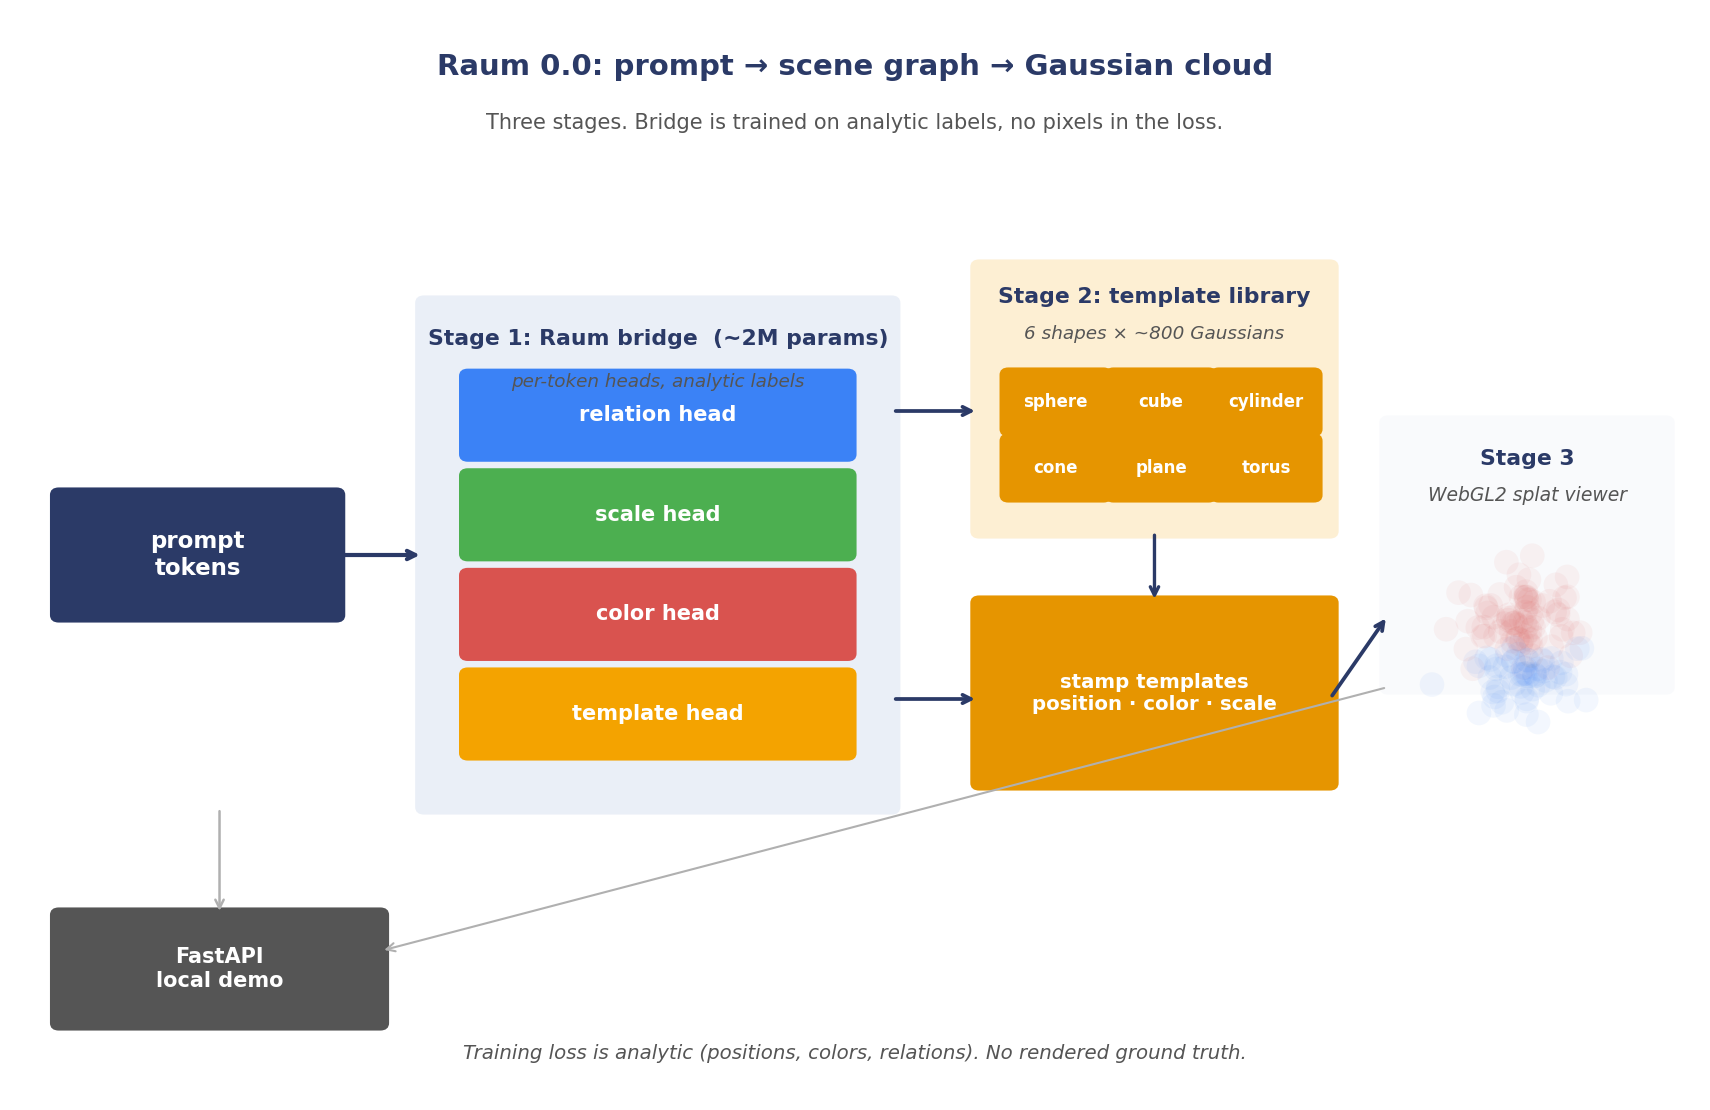
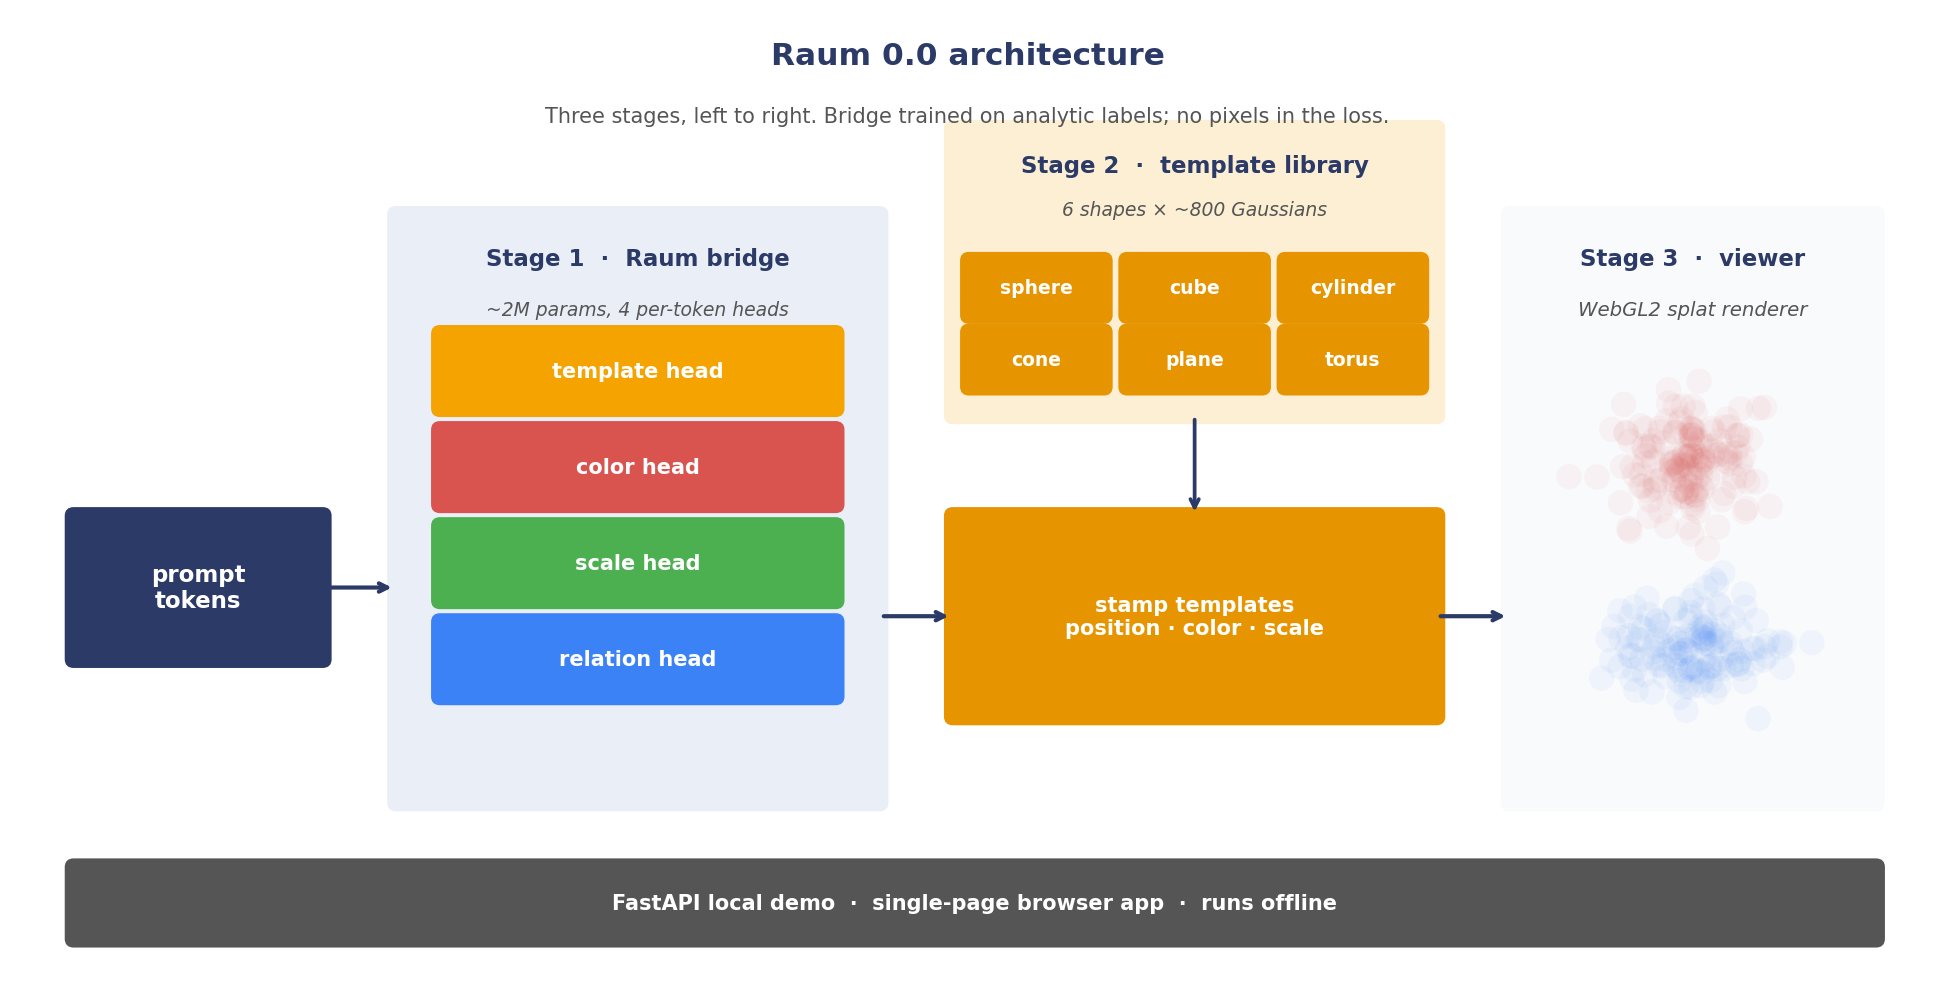
Clean up Raum 0.0 architecture diagram
Heads in reading order (template, color, scale, relation); remove
criss-crossing FastAPI return arrows in favour of a footer strip;
single horizontal spine with library stacked above stamp.

diff --git a/scripts/plot_raum_posts.py b/scripts/plot_raum_posts.py
@@ -181,124 +181,145 @@ def post1_core_idea():
 # ──────────────────────────────────────────────────────────────────
 
 def post2_architecture():
-    fig, ax = plt.subplots(figsize=(11.5, 7.5))
-    ax.set_xlim(0, 11.5)
-    ax.set_ylim(0, 9.0)
+    """
+    Clean left-to-right three-stage diagram. Single spine, vertical
+    middle column for the template library feed into stamp. No
+    diagonal return arrows, no stray connectors. Heads in reading
+    order (template → color → scale → relation).
+    """
+    fig, ax = plt.subplots(figsize=(13.0, 6.8))
+    W, H = 13.0, 6.8
+    ax.set_xlim(0, W)
+    ax.set_ylim(0, H)
     ax.axis("off")
 
-    # Title
+    # ─── Title ───
     ax.text(
-        5.75, 8.5, "Raum 0.0: prompt → scene graph → Gaussian cloud",
-        ha="center", fontsize=14, fontweight="bold", color=C_BASE,
+        W / 2, H - 0.35,
+        "Raum 0.0 architecture",
+        ha="center", fontsize=15, fontweight="bold", color=C_BASE,
     )
     ax.text(
-        5.75, 8.05,
-        "Three stages. Bridge is trained on analytic labels, no pixels in the loss.",
+        W / 2, H - 0.75,
+        "Three stages, left to right. Bridge trained on analytic labels; no pixels in the loss.",
         ha="center", fontsize=10, color=C_TEXT_FAINT,
     )
 
-    # Input prompt
-    _box(ax, 0.3, 4.0, 1.9, 1.0, "prompt\ntokens", C_BASE)
+    # Horizontal centre-line the three stage bodies share.
+    SPINE_Y = 2.8
 
-    # ─── Stage 1: bridge with 4 heads ───
-    bridge_x, bridge_y, bridge_w, bridge_h = 2.8, 2.4, 3.2, 4.2
-    _box(ax, bridge_x, bridge_y, bridge_w, bridge_h, "", "#EAEFF7", text_color=C_BASE)
+    # ─── 0. Prompt (input) ───
+    p_x, p_y, p_w, p_h = 0.4, SPINE_Y - 0.5, 1.7, 1.0
+    _box(ax, p_x, p_y, p_w, p_h, "prompt\ntokens", C_BASE, fontsize=11)
+
+    # ─── Stage 1: bridge ───
+    b_x, b_y, b_w, b_h = 2.6, 1.3, 3.3, 4.1
+    _box(ax, b_x, b_y, b_w, b_h, "", "#EAEFF7", text_color=C_BASE)
     ax.text(
-        bridge_x + bridge_w / 2, bridge_y + bridge_h - 0.35,
-        "Stage 1: Raum bridge  (~2M params)",
-        ha="center", fontsize=10.5, color=C_BASE, fontweight="bold",
+        b_x + b_w / 2, b_y + b_h - 0.35,
+        "Stage 1  ·  Raum bridge",
+        ha="center", fontsize=11, color=C_BASE, fontweight="bold",
     )
     ax.text(
-        bridge_x + bridge_w / 2, bridge_y + bridge_h - 0.7,
-        "per-token heads, analytic labels",
-        ha="center", fontsize=8.8, color=C_TEXT_FAINT, style="italic",
+        b_x + b_w / 2, b_y + b_h - 0.7,
+        "~2M params, 4 per-token heads",
+        ha="center", fontsize=9, color=C_TEXT_FAINT, style="italic",
     )
 
-    head_w, head_h = 2.6, 0.65
-    head_x = bridge_x + (bridge_w - head_w) / 2
+    # Heads in reading order top→bottom.
     heads = [
         ("template head", C_ACCENT),
-        ("color head", C_RED),
-        ("scale head", C_POS),
+        ("color head",    C_RED),
+        ("scale head",    C_POS),
         ("relation head", C_BLUE),
     ]
+    head_w, head_h = 2.7, 0.52
+    head_x = b_x + (b_w - head_w) / 2
+    head_top = b_y + b_h - 1.35
     for i, (label, color) in enumerate(heads):
-        hy = bridge_y + 0.45 + i * (head_h + 0.18)
+        hy = head_top - i * (head_h + 0.15)
         _box(ax, head_x, hy, head_w, head_h, label, color, fontsize=10)
 
-    # ─── Stage 2: template library ───
-    lib_x, lib_y, lib_w, lib_h = 6.6, 4.7, 2.4, 2.2
+    # ─── Stage 2: template library (top) above stamp (bottom) ───
+    lib_x, lib_y, lib_w, lib_h = 6.4, 4.0, 3.3, 2.0
     _box(ax, lib_x, lib_y, lib_w, lib_h, "", "#FDEFD3", text_color=C_BASE)
     ax.text(
         lib_x + lib_w / 2, lib_y + lib_h - 0.3,
-        "Stage 2: template library",
-        ha="center", fontsize=10.5, color=C_BASE, fontweight="bold",
+        "Stage 2  ·  template library",
+        ha="center", fontsize=11, color=C_BASE, fontweight="bold",
     )
     ax.text(
         lib_x + lib_w / 2, lib_y + lib_h - 0.6,
         "6 shapes × ~800 Gaussians",
-        ha="center", fontsize=8.8, color=C_TEXT_FAINT, style="italic",
+        ha="center", fontsize=9, color=C_TEXT_FAINT, style="italic",
     )
     shapes = ["sphere", "cube", "cylinder", "cone", "plane", "torus"]
+    cell_w, cell_h = 0.92, 0.38
+    grid_w = cell_w * 3 + 0.16 * 2
+    gx0 = lib_x + (lib_w - grid_w) / 2
     for i, s in enumerate(shapes):
         col = i % 3
         row = i // 3
-        sx = lib_x + 0.2 + col * 0.72
-        sy = lib_y + 0.3 + (1 - row) * 0.55
-        _box(ax, sx, sy, 0.65, 0.45, s, C_SECOND, fontsize=8)
+        sx = gx0 + col * (cell_w + 0.16)
+        sy = lib_y + 0.2 + (1 - row) * (cell_h + 0.12)
+        _box(ax, sx, sy, cell_w, cell_h, s, C_SECOND, fontsize=9)
 
-    # Stamping box
-    stamp_x, stamp_y, stamp_w, stamp_h = 6.6, 2.6, 2.4, 1.5
+    stamp_x, stamp_y, stamp_w, stamp_h = 6.4, 1.9, 3.3, 1.4
     _box(
         ax, stamp_x, stamp_y, stamp_w, stamp_h,
         "stamp templates\nposition · color · scale",
-        C_SECOND, fontsize=9.5,
+        C_SECOND, fontsize=10,
     )
 
-    # ─── Stage 3: WebGL viewer ───
-    view_x, view_y, view_w, view_h = 9.4, 3.4, 1.9, 2.2
-    _box(ax, view_x, view_y, view_w, view_h, "", "#F9FAFC", text_color=C_BASE)
+    # ─── Stage 3: viewer ───
+    v_x, v_y, v_w, v_h = 10.2, 1.3, 2.5, 4.1
+    _box(ax, v_x, v_y, v_w, v_h, "", "#F9FAFC", text_color=C_BASE)
     ax.text(
-        view_x + view_w / 2, view_y + view_h - 0.35,
-        "Stage 3",
-        ha="center", fontsize=10.5, color=C_BASE, fontweight="bold",
+        v_x + v_w / 2, v_y + v_h - 0.35,
+        "Stage 3  ·  viewer",
+        ha="center", fontsize=11, color=C_BASE, fontweight="bold",
     )
     ax.text(
-        view_x + view_w / 2, view_y + view_h - 0.65,
-        "WebGL2 splat viewer",
-        ha="center", fontsize=9, color=C_TEXT_FAINT, style="italic",
-    )
-    # mini splat icon inside the viewer box
-    rng = np.random.default_rng(7)
-    cx, cy = view_x + view_w / 2, view_y + view_h / 2 - 0.45
-    for _ in range(80):
-        dx = rng.normal(0, 0.22)
-        dy = rng.normal(0, 0.22)
-        ax.scatter(cx + dx, cy + dy - 0.05, s=140, c=C_RED, alpha=0.06, edgecolors="none")
-    for _ in range(60):
-        dx = rng.normal(0, 0.20)
-        dy = rng.normal(0, 0.15)
-        ax.scatter(cx + dx, cy + dy - 0.55, s=140, c=C_BLUE, alpha=0.06, edgecolors="none")
-
-    # Output card
-    _box(ax, 0.3, 0.6, 2.2, 0.9, "FastAPI\nlocal demo", "#555", fontsize=10)
-
-    # Arrows
-    _arrow(ax, 2.2, 4.5, 2.8, 4.5, color=C_BASE, lw=2.0)            # tokens → bridge
-    _arrow(ax, 6.0, 5.7, 6.6, 5.7, color=C_BASE, lw=1.8)            # bridge → library
-    _arrow(ax, 6.0, 3.3, 6.6, 3.3, color=C_BASE, lw=1.8)            # bridge → stamping
-    _arrow(ax, 7.8, 4.7, 7.8, 4.1, color=C_BASE, lw=1.6)            # library → stamping
-    _arrow(ax, 9.0, 3.3, 9.4, 4.0, color=C_BASE, lw=1.8)            # stamping → viewer
-    _arrow(ax, 9.4, 4.5, 9.4, 4.5, color=C_BASE, lw=0.0)            # (no-op placeholder)
-    _arrow(ax, 1.4, 2.4, 1.4, 1.5, color=C_GREY, lw=1.2)            # tokens → demo
-    _arrow(ax, 9.4, 3.4, 2.5, 1.2, color=C_GREY, lw=1.0)            # viewer → demo (browser)
-
-    # Legend-ish caption at bottom
-    ax.text(
-        5.75, 0.3,
-        "Training loss is analytic (positions, colors, relations). No rendered ground truth.",
+        v_x + v_w / 2, v_y + v_h - 0.7,
+        "WebGL2 splat renderer",
         ha="center", fontsize=9.5, color=C_TEXT_FAINT, style="italic",
     )
+
+    # Mini splat preview. Red sphere above blue cube, vertically stacked.
+    rng = np.random.default_rng(7)
+    cx = v_x + v_w / 2
+    cy_red = v_y + v_h / 2 + 0.35
+    cy_blue = v_y + 1.15
+    for _ in range(160):
+        dx = rng.normal(0, 0.26)
+        dy = rng.normal(0, 0.24)
+        ax.scatter(cx + dx, cy_red + dy, s=150, c=C_RED, alpha=0.05, edgecolors="none")
+    for _ in range(140):
+        dx = rng.normal(0, 0.32)
+        dy = rng.normal(0, 0.20)
+        ax.scatter(cx + dx, cy_blue + dy, s=150, c=C_BLUE, alpha=0.05, edgecolors="none")
+
+    # ─── Arrows ───
+    # prompt → bridge
+    _arrow(ax, p_x + p_w, SPINE_Y, b_x, SPINE_Y, color=C_BASE, lw=2.0)
+    # bridge → stamp (single horizontal arrow; heads are internal to the bridge)
+    _arrow(ax, b_x + b_w, stamp_y + stamp_h / 2, stamp_x, stamp_y + stamp_h / 2,
+           color=C_BASE, lw=2.0)
+    # library → stamp
+    _arrow(ax, lib_x + lib_w / 2, lib_y, lib_x + lib_w / 2, stamp_y + stamp_h,
+           color=C_BASE, lw=1.8)
+    # stamp → viewer
+    _arrow(ax, stamp_x + stamp_w, stamp_y + stamp_h / 2,
+           v_x, stamp_y + stamp_h / 2, color=C_BASE, lw=2.0)
+
+    # ─── Footer strip (demo wrapper) ───
+    footer_h = 0.5
+    footer_y = 0.35
+    footer_x = p_x
+    footer_w = v_x + v_w - p_x
+    _box(ax, footer_x, footer_y, footer_w, footer_h,
+         "FastAPI local demo  ·  single-page browser app  ·  runs offline",
+         "#555", fontsize=10)
 
     out = OUT / "post-2-1_architecture.png"
     plt.tight_layout()
